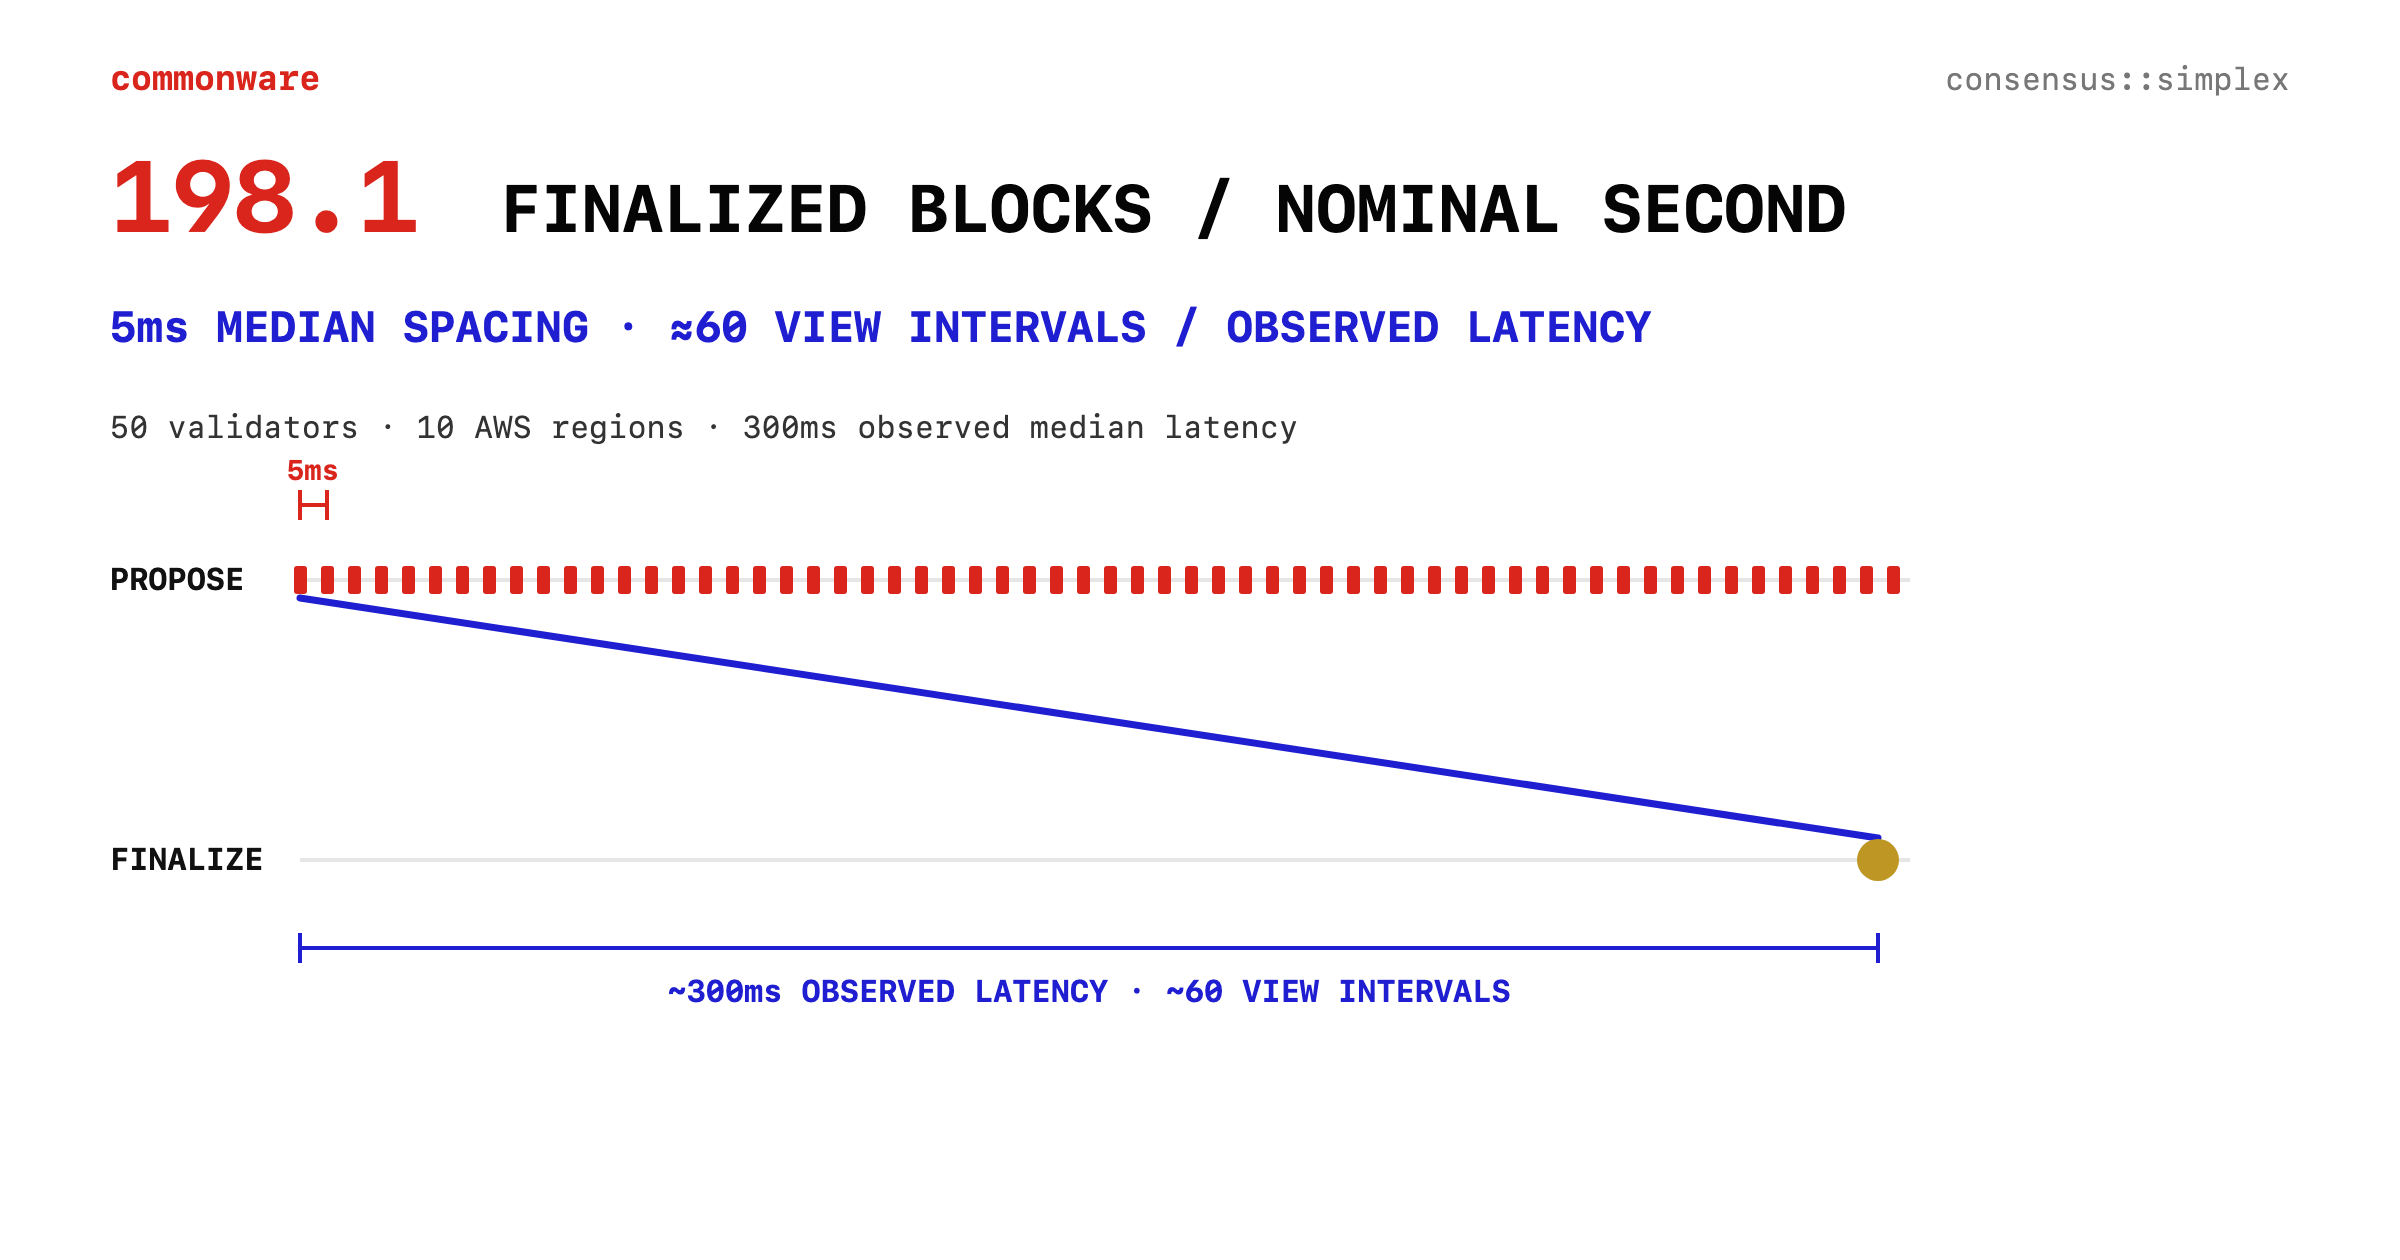
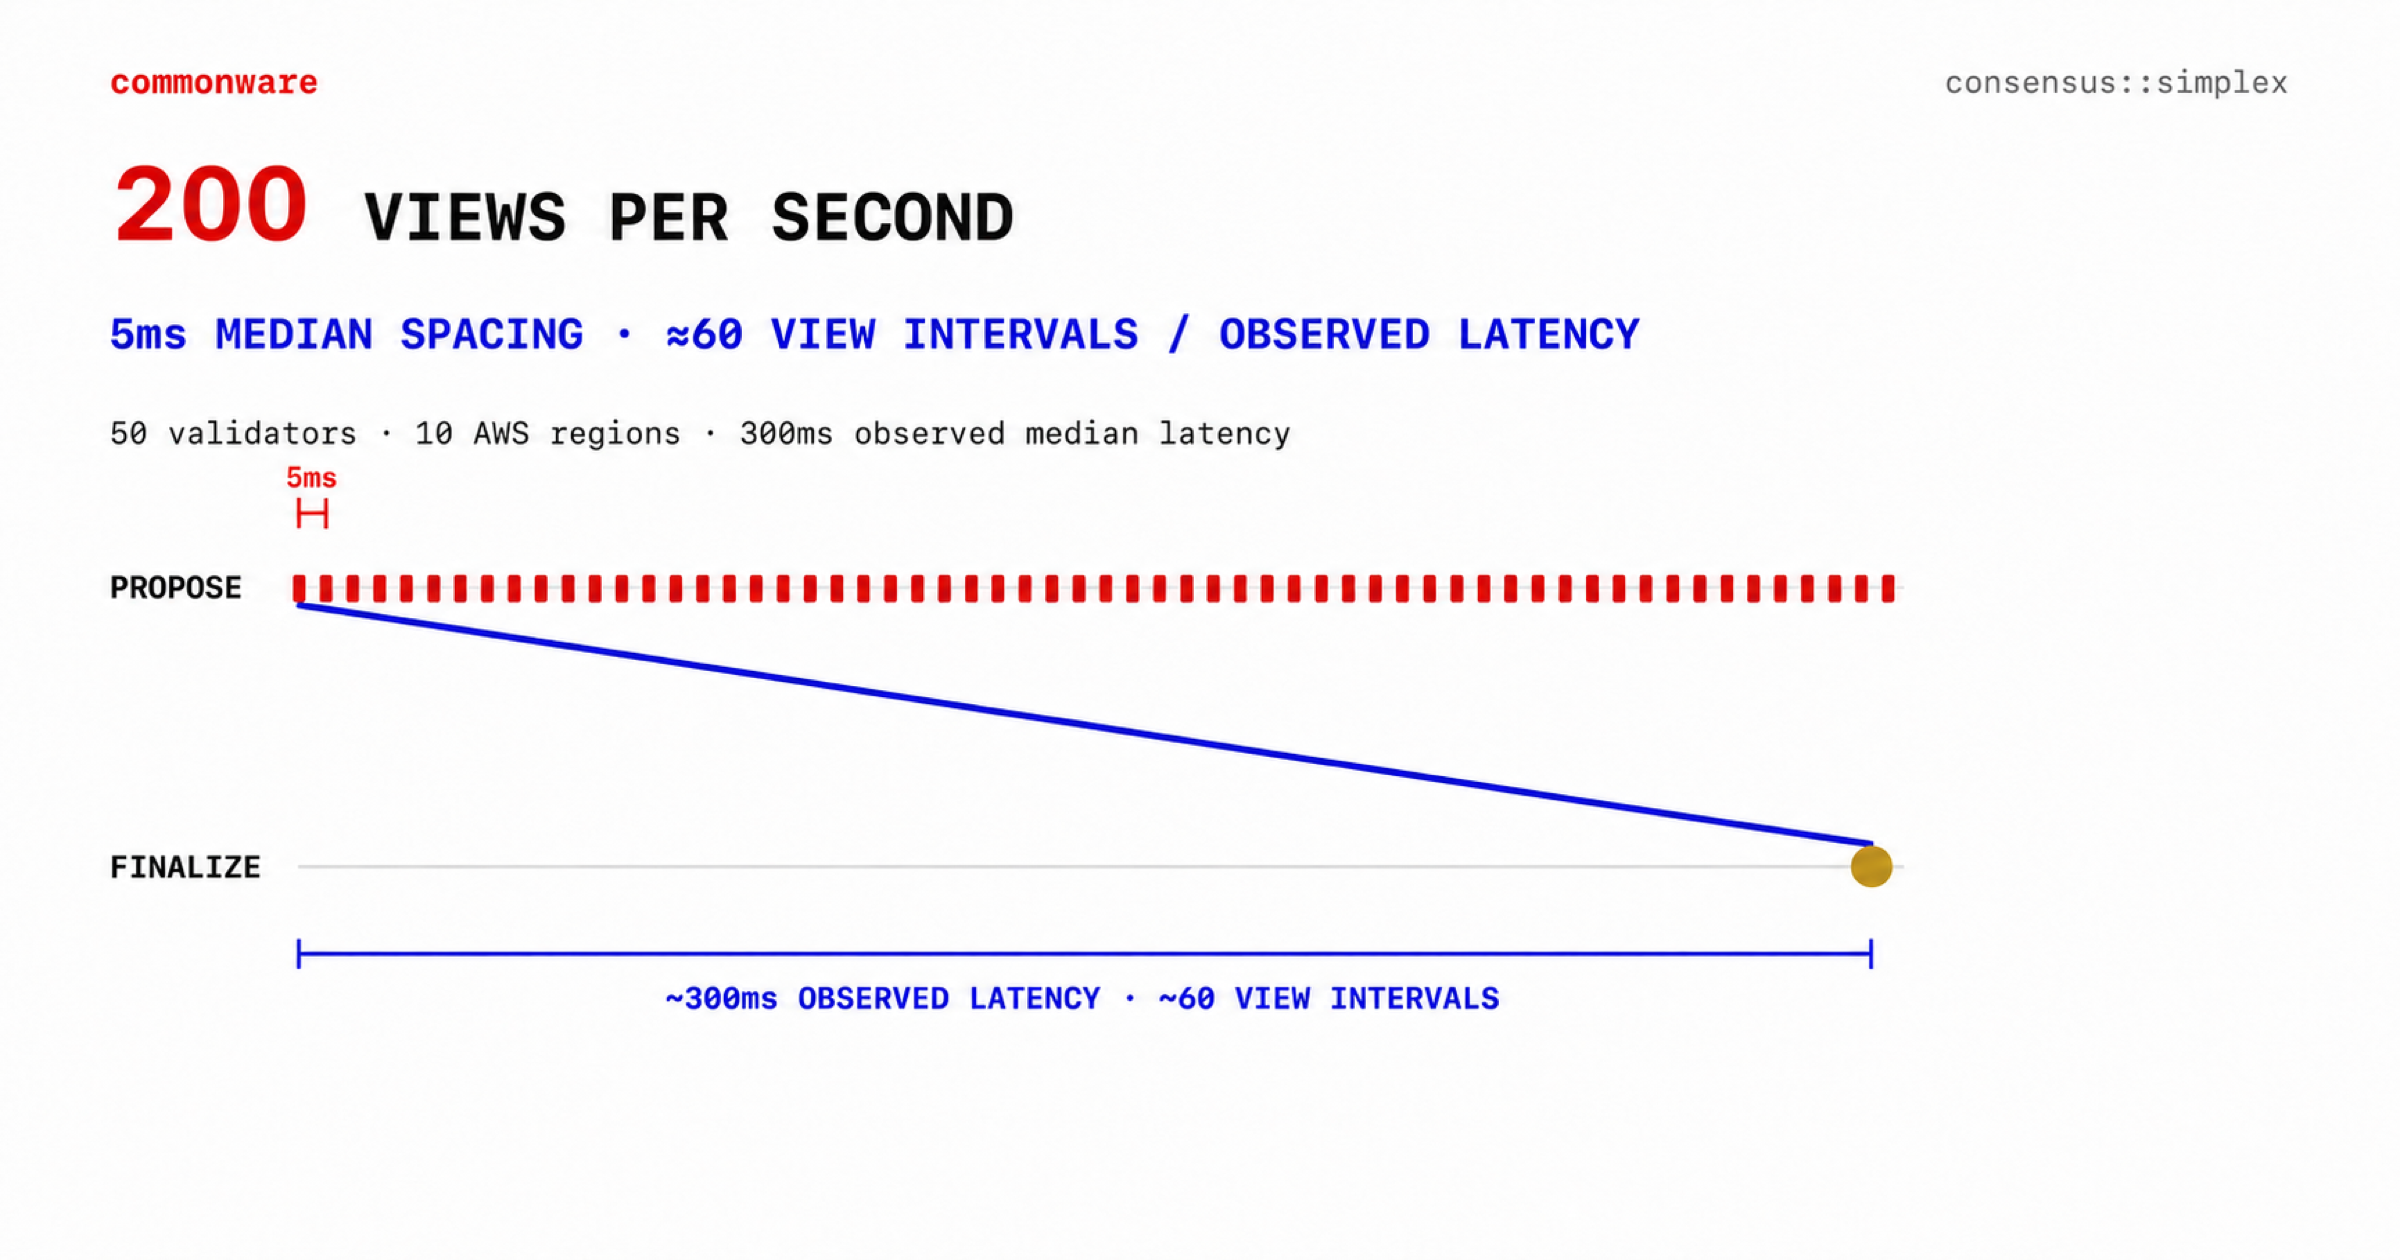
[docs] Round pipelining Simplex headline

diff --git a/docs/blogs/pipelining-simplex.html b/docs/blogs/pipelining-simplex.html
@@ -8,27 +8,24 @@
     <link rel="preload" href="/shared.js" as="script">
     <link rel="icon" href="/favicon.ico" type="image/x-icon">
 
-    <title>commonware > 198.1 Blocks Per Second: Pipelining
-Simplex</title>
-    <meta name="description" content="At 5ms median block spacing,
-Alto’s analyzer reported 198.1 finalized blocks per nominal second
-across 50 validators. Median external-observer finalization latency was
-300ms.">
-    <meta name="author" content="Brendan Chou, Patrick O’Grady">
+    <title>commonware > 200 Views Per Second: Pipelining Simplex</title>
+    <meta name="description" content="At 5ms median block spacing, Alto
+sustained about 200 successful views per nominal second across 50
+validators. Median external-observer finalization latency was 300ms.">
+    <meta name="author" content="Brendan Chou">
     <meta name="keywords" content="commonware, open source, common goods, software, internet, ownership, trust, blockchain, decentralization, crypto">
 
     <meta property="og:url" content="https://commonware.xyz/blogs/pipelining-simplex" />
     <meta property="og:type" content="article" />
     <meta property="og:site_name" content="commonware" />
     <meta property="og:image" content="https://commonware.xyz/imgs/pipelining-simplex.png" />
-    <meta property="og:title" content="198.1 Blocks Per Second:
-Pipelining Simplex" />
+    <meta property="og:title" content="200 Views Per Second: Pipelining
+Simplex" />
     <meta property="og:description" content="At 5ms median block
-spacing, Alto’s analyzer reported 198.1 finalized blocks per nominal
-second across 50 validators. Median external-observer finalization
-latency was 300ms." />
+spacing, Alto sustained about 200 successful views per nominal second
+across 50 validators. Median external-observer finalization latency was
+300ms." />
     <meta property="article:author" content="Brendan Chou" />
-    <meta property="article:author" content="Patrick O’Grady" />
     <meta property="article:published_time" content="2026-08-10T00:00:00Z" />
     <meta property="article:modified_time" content="2026-08-10T00:00:00Z" />
 
@@ -37,17 +34,16 @@ latency was 300ms." />
     <meta name="twitter:card" content="summary_large_image" />
     <meta property="twitter:domain" content="commonware.xyz" />
     <meta property="twitter:url" content="https://commonware.xyz/blogs/pipelining-simplex" />
-    <meta property="twitter:title" content="198.1 Blocks Per Second:
+    <meta property="twitter:title" content="200 Views Per Second:
 Pipelining Simplex" />
     <meta property="twitter:description" content="At 5ms median block
-spacing, Alto’s analyzer reported 198.1 finalized blocks per nominal
-second across 50 validators. Median external-observer finalization
-latency was 300ms." />
+spacing, Alto sustained about 200 successful views per nominal second
+across 50 validators. Median external-observer finalization latency was
+300ms." />
     <meta property="twitter:image" content="https://commonware.xyz/imgs/pipelining-simplex.png" />
     <meta property="twitter:site" content="@commonwarexyz" />
         <meta property="twitter:creator" content="https://x.com/B_Chou" />
-        <meta property="twitter:creator" content="https://x.com/_patrickogrady" />
-
+    
     
     <link rel="stylesheet" type="text/css" href="/style.css">
 </head>
@@ -93,21 +89,21 @@ latency was 300ms." />
         </div>
     </div>
     <div class="content">
-        <h1>198.1 Blocks Per Second: Pipelining Simplex</h1>
+        <h1>200 Views Per Second: Pipelining Simplex</h1>
         <div class="meta">
 
                         <div class="author">By <a href="https://x.com/B_Chou">Brendan
-Chou</a> and <a href="https://x.com/_patrickogrady">Patrick
-O’Grady</a></div>
+Chou</a></div>
                         <div class="date">August 10th, 2026</div>
         </div>
         <p>For applications sequencing already-disseminated data, block
         spacing sets how often fresh data gets another ordering
         opportunity.</p>
         <p>In one global deployment with 50 validators, <a
-        href="https://alto.commonware.xyz">Alto’s</a> analyzer reported
-        198.1 finalized blocks per nominal second. The per-window median
-        block spacing was 5ms.</p>
+        href="https://alto.commonware.xyz">Alto</a> sustained about 200
+        successful views per nominal second. Every successful view
+        finalized one block, and the per-window median block spacing was
+        5ms.</p>
         <p>A separate capture measured 300ms median latency from the
         leader-stamped block timestamp until an external observer
         received its finalization certificate. Those numbers may look

diff --git a/docs/index.html b/docs/index.html
@@ -136,12 +136,12 @@
         <p>Reshare a threshold secret over an epoched log.</p>
 
         <h2>Blogs</h2>
-        <h3><a href="/blogs/pipelining-simplex.html">198.1 Blocks Per Second: Pipelining Simplex</a></h3>
+        <h3><a href="/blogs/pipelining-simplex.html">200 Views Per Second: Pipelining Simplex</a></h3>
         <div class="meta">
-            <div class="author">By <a href="https://x.com/B_Chou">Brendan Chou</a> and <a href="https://x.com/_patrickogrady">Patrick O'Grady</a></div>
+            <div class="author">By <a href="https://x.com/B_Chou">Brendan Chou</a></div>
             <div class="date">August 10th, 2026</div>
         </div>
-        <p>At 5ms median block spacing, Alto's analyzer reported 198.1 finalized blocks per nominal second across 50 validators. Median external-observer finalization latency was 300ms.</p>
+        <p>At 5ms median block spacing, Alto sustained about 200 successful views per nominal second across 50 validators. Median external-observer finalization latency was 300ms.</p>
         <h3><a href="/blogs/multimmit.html">Multimmit: The Best of Both Worlds</a></h3>
         <div class="meta">
             <div class="author">By <a href="https://x.com/_patrickogrady">Patrick O'Grady</a></div>

diff --git a/docs/blogs/pipelining-simplex.md b/docs/blogs/pipelining-simplex.md
@@ -1,20 +1,18 @@
 ---
-title: "198.1 Blocks Per Second: Pipelining Simplex"
-description: "At 5ms median block spacing, Alto's analyzer reported 198.1 finalized blocks per nominal second across 50 validators. Median external-observer finalization latency was 300ms."
+title: "200 Views Per Second: Pipelining Simplex"
+description: "At 5ms median block spacing, Alto sustained about 200 successful views per nominal second across 50 validators. Median external-observer finalization latency was 300ms."
 date: "August 10th, 2026"
 published-time: "2026-08-10T00:00:00Z"
 modified-time: "2026-08-10T00:00:00Z"
 author: "Brendan Chou"
 author_twitter: "https://x.com/B_Chou"
-author2: "Patrick O'Grady"
-author2_twitter: "https://x.com/_patrickogrady"
 url: "https://commonware.xyz/blogs/pipelining-simplex"
 image: "https://commonware.xyz/imgs/pipelining-simplex.png"
 ---
 
 For applications sequencing already-disseminated data, block spacing sets how often fresh data gets another ordering opportunity.
 
-In one global deployment with 50 validators, [Alto's](https://alto.commonware.xyz) analyzer reported 198.1 finalized blocks per nominal second. The per-window median block spacing was 5ms.
+In one global deployment with 50 validators, [Alto](https://alto.commonware.xyz) sustained about 200 successful views per nominal second. Every successful view finalized one block, and the per-window median block spacing was 5ms.
 
 A separate capture measured 300ms median latency from the leader-stamped block timestamp until an external observer received its finalization certificate. Those numbers may look inconsistent at first, but they describe two different clocks.
 
